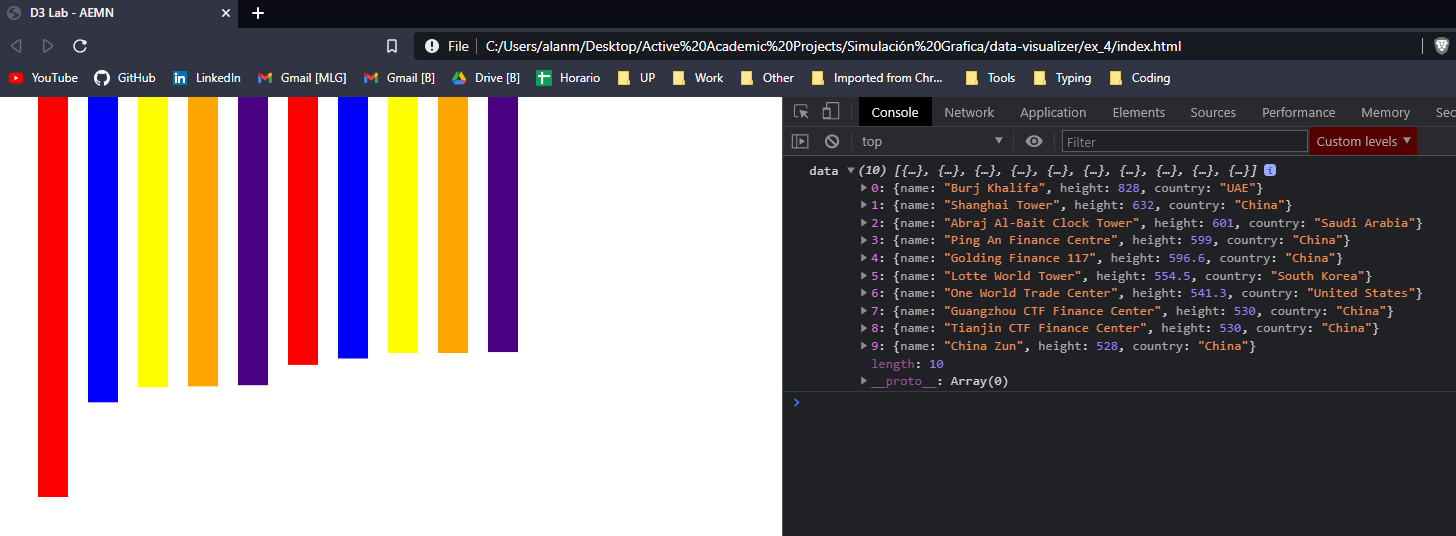
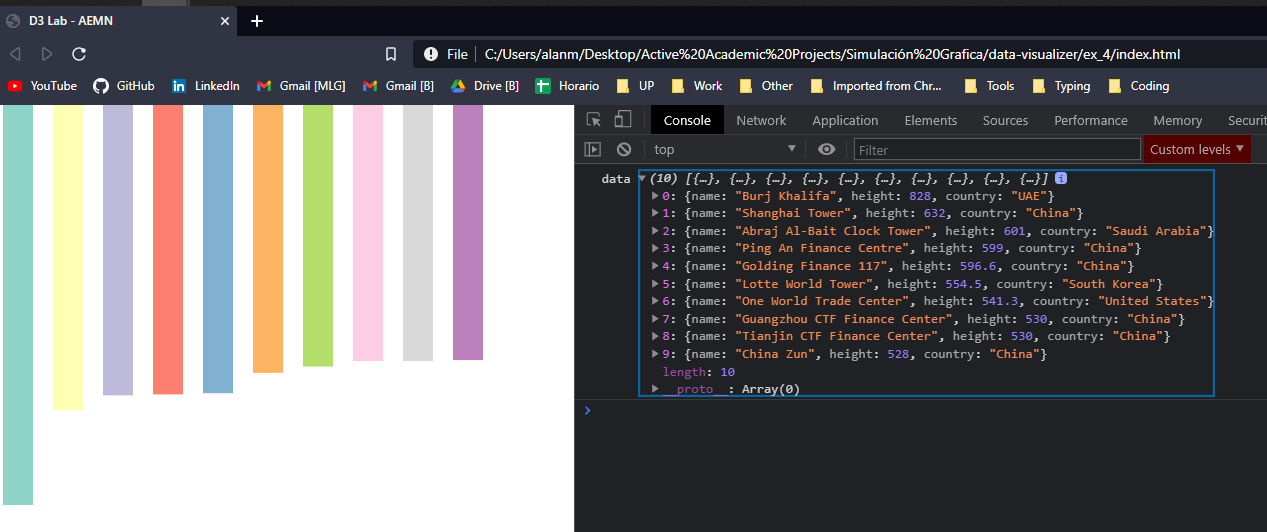
EX4 fix

diff --git a/ex_4/index.html b/ex_4/index.html
@@ -12,11 +12,7 @@
 
 <body>
 
-    <div class="container">
-        <div class="row">
-            <div id="chart-area"></div>
-        </div>
-    </div>
+    <div id="chart-area"></div>
     <script src="https://code.jquery.com/jquery-3.3.1.slim.min.js"
         integrity="sha384-q8i/X+965DzO0rT7abK41JStQIAqVgRVzpbzo5smXKp4YfRvH+8abtTE1Pi6jizo"
         crossorigin="anonymous"></script>

diff --git a/ex_4/js/main.js b/ex_4/js/main.js
@@ -15,6 +15,8 @@ const main = async () => {
     return;
   }
 
+  console.log(`data`, data);
+
   const x = d3
     .scaleBand()
     .domain(data)
